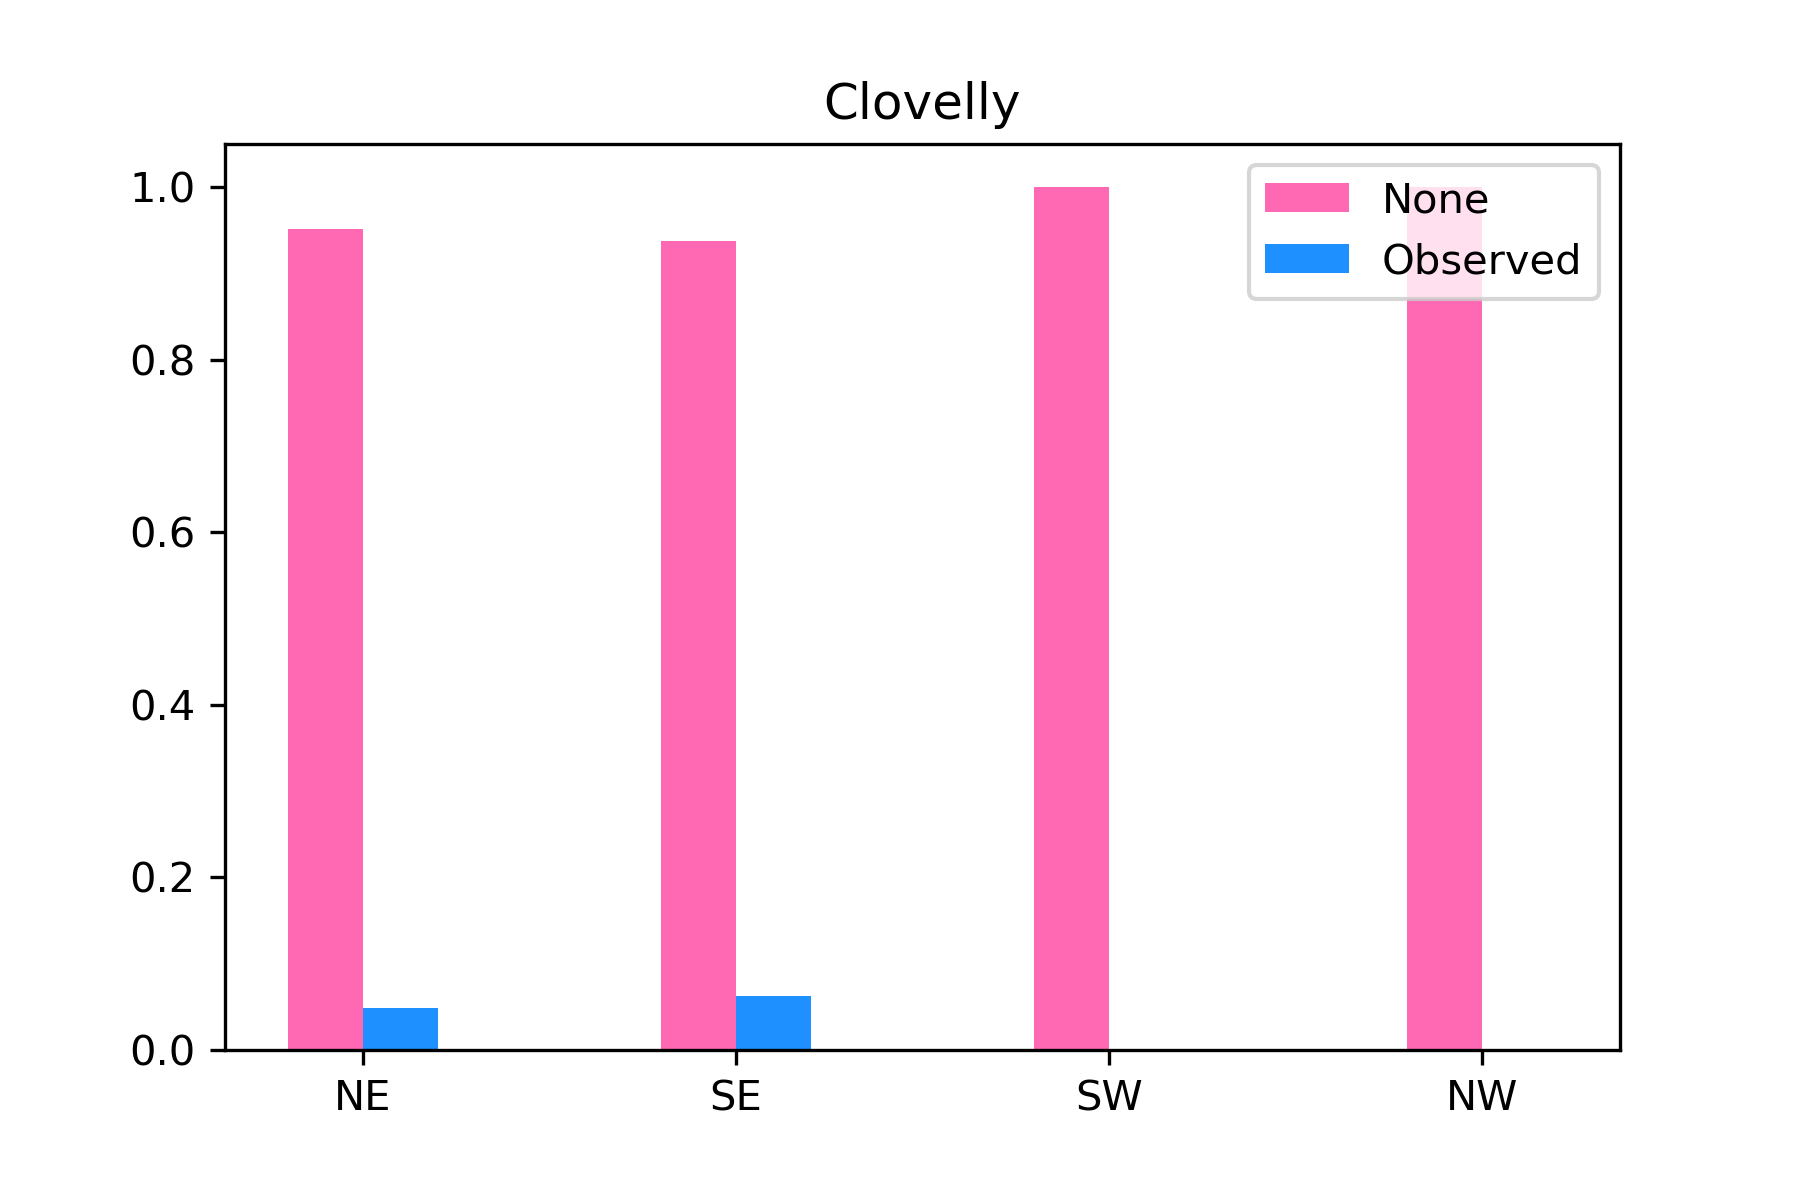
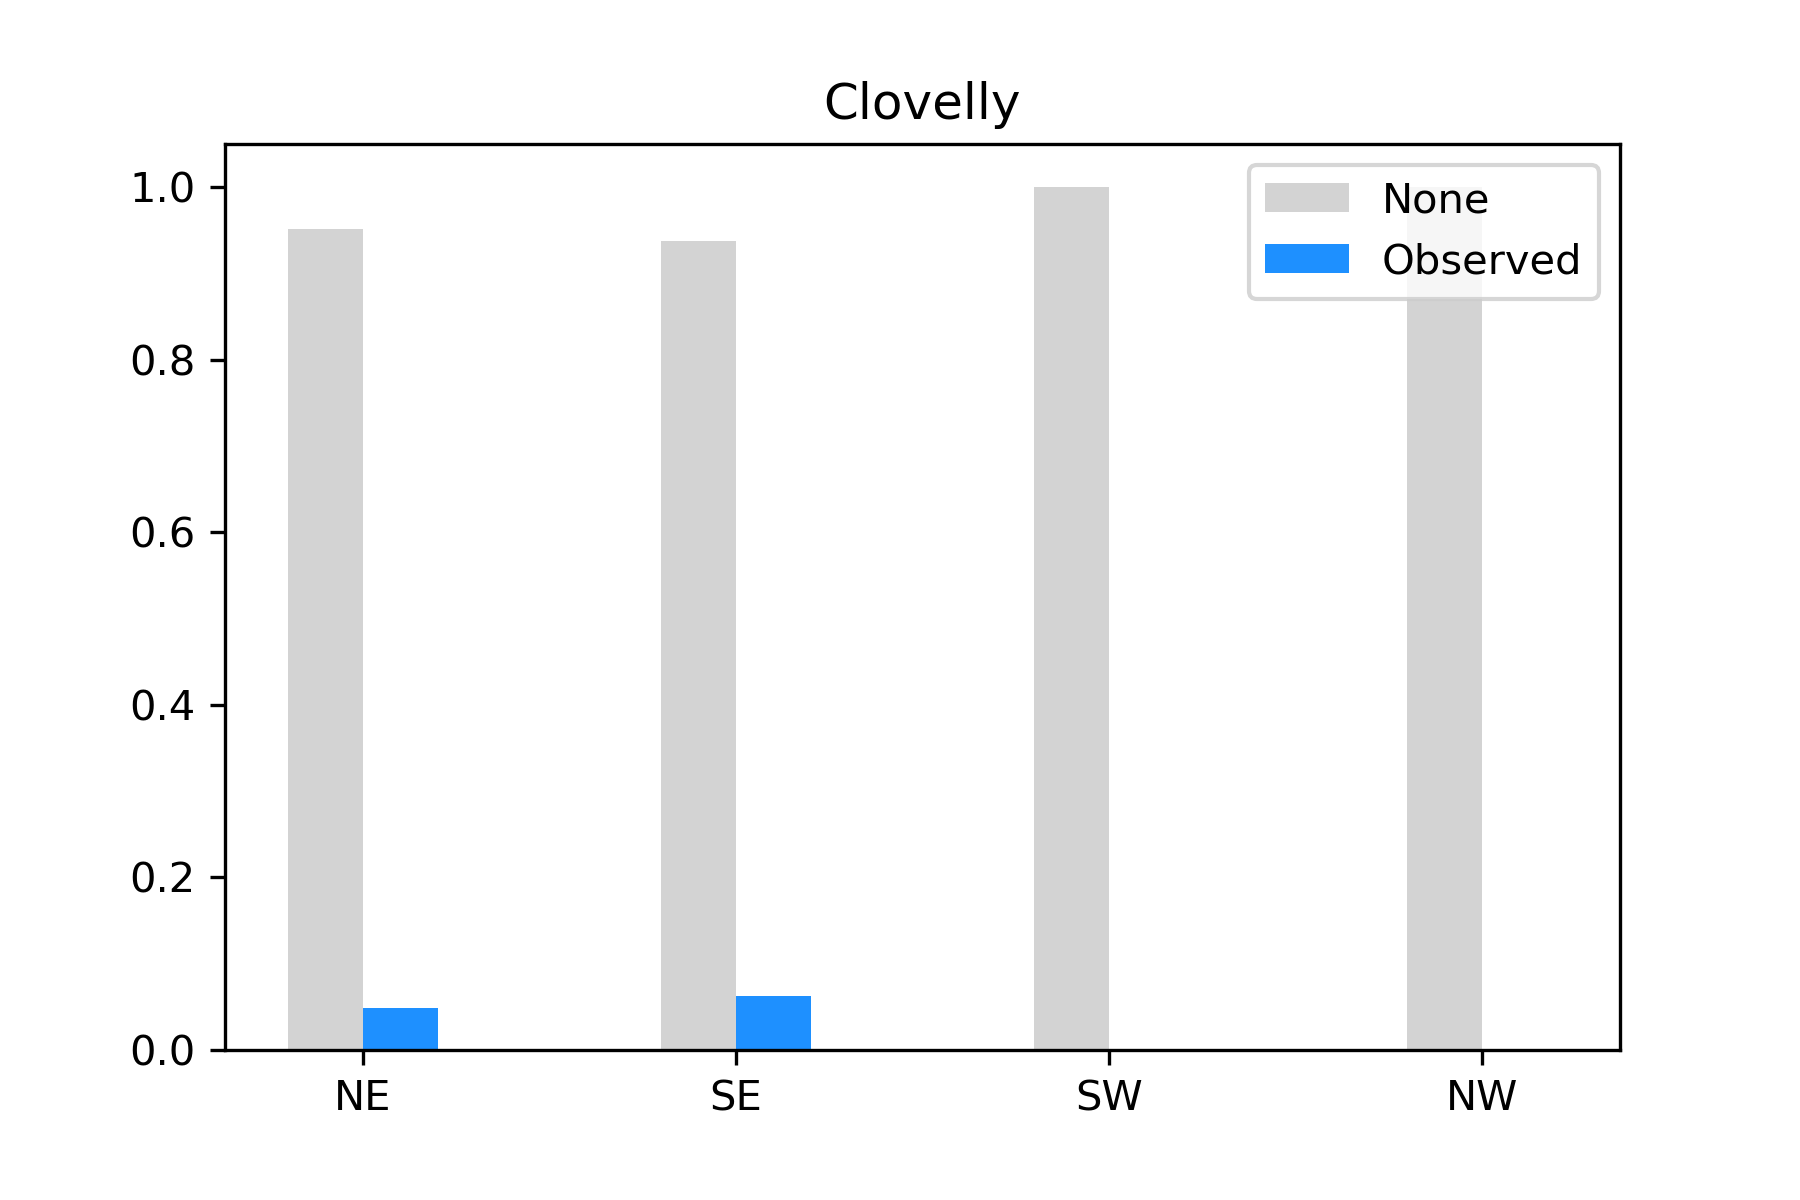
Add rose plots kurnell oceano

diff --git a/observation_data/analysis_observation_data/analysis_bluebottle_lifeguard.py b/observation_data/analysis_observation_data/analysis_bluebottle_lifeguard.py
@@ -118,7 +118,7 @@ def TableDiff(date1,date2,file1,file2):
     t=Table([date,first_beach,second_beach], names=('date',first,second))
     total=equal+diff
     t.add_row((0, equal, total))
-    ascii.write(t, '../outputs_observation_data/diff'+first+second+'.csv', format='csv', fast_writer=False, overwrite=True)  
+#    ascii.write(t, '../outputs_observation_data/diff'+first+second+'.csv', format='csv', fast_writer=False, overwrite=True)  
 
 def PlotTemp():
     """
@@ -134,11 +134,11 @@ def PlotTemp():
         fig=plt.figure(figsize=(12,9))
         for j in range(len(bluebottles[i])):
             if bluebottles[i][j]==1:
-                somemany=plt.scatter(date[i][j], water_temp[i][j], color='dodgerblue',s=12)
-            elif bluebottles[i][j]==0.5:
-                likely=plt.scatter(date[i][j], water_temp[i][j], color='lightskyblue',s=12)
+                somemany=plt.scatter(date[i][j], water_temp[i][j], color='dodgerblue',s=14,marker='o')
+     #       elif bluebottles[i][j]==0.5:
+     #           likely=plt.scatter(date[i][j], water_temp[i][j], color='lightskyblue',s=12,alpha=0, marker='o')
             else:
-                none=plt.scatter(date[i][j], water_temp[i][j], color='hotpink',alpha=0.2, marker='+',s=10)
+                none=plt.scatter(date[i][j], water_temp[i][j], color='lightgrey', marker='o',s=14,alpha=0.3)
         ax=plt.axes()
         ax.xaxis.set_major_locator(years)
         ax.xaxis.set_major_formatter(years_fmt)
@@ -148,8 +148,8 @@ def PlotTemp():
         fig.autofmt_xdate()
         plt.ylabel('Water temperature (celsius)')
         plt.title('Bluebottles at '+str(location[i])+' beach')
-        plt.legend((somemany, likely, none),
-                    ('observed','likely','none'),
+        plt.legend((somemany,  none),#likely,
+                    ('observed','none'),# 'likely',
                     scatterpoints=1,
                     loc='upper left',
                     ncol=3,
@@ -197,7 +197,7 @@ def TableMonthBeach():
                                 none_month[i][m]+=1
                             percentage_none_month[i][m]=np.divide(100.*none_month[i][m],observed_month[i][m]+likely_month[i][m]+none_month[i][m])
             month_beach=Table([month,observed_month[i][:12],likely_month[i][:12],none_month[i][:12], percentage_none_month[i][:12]],names=('Month','Observed','Likely','Noone','% of None'))
-            ascii.write(month_beach, '../outputs_observation_data/monthly_bluebottles_'+str(yearr[y])+'_'+location[i]+'.csv', format='csv', fast_writer=False, overwrite=True)  
+          #  ascii.write(month_beach, '../outputs_observation_data/monthly_bluebottles_'+str(yearr[y])+'_'+location[i]+'.csv', format='csv', fast_writer=False, overwrite=True)  
         ax[y].set_ylabel('# observations')
         ax[y].bar(xbar-width/2, observed_month[0], width=0.2, color='dodgerblue', align='center',label='observed')
         ax[y].bar(xbar+width/2, none_month[0], width=0.2, color='hotpink', align='center',label='none')
@@ -394,39 +394,17 @@ def WindDirectionTime(nb, date_plot, BOMdaily):
                 ncol=3,
                 fontsize=8)
     plt.show()
-    fig.savefig("../outputs_observation_data/gust_direction_past_"+str(location[nb])+".png",dpi=300)
+  #  fig.savefig("../outputs_observation_data/gust_direction_past_"+str(location[nb])+".png",dpi=300)
 
 
 file_name = '../raw_observation_data/bom_port_kembla/all_IDO.csv'
 f=pd.read_csv(file_name)
 
-BOMtime, BOMdate, BOMwater_temp, BOMwind_direction, BOMwind_speed = GetBOMVariables(f)
-BOMdaily,date_plot=DailyAverage()
+#BOMtime, BOMdate, BOMwater_temp, BOMwind_direction, BOMwind_speed = GetBOMVariables(f)
+#BOMdaily,date_plot=DailyAverage()
 
 #plt.hist(x,bins=30)
 #plt.ylabel('proba')
-
-"""
-Kurnell data 
-
-wind_direction[i]=file.Wind_direction_00[i]+file.Wind_direction_03[i]+file.Wind_direction_06[i]+file.Wind_direction_09[i]+float(file.Wind_direction_12[i])+float(file.Wind_direction_15[i])+float(file.Wind_direction_18[i])+float(file.Wind_direction_21[i])
-daily_direction[i]=(wind_direction[i])/8
-wind_speed[i]=file.Wind_speed_00[i]+file.Wind_speed_03[i]+file.Wind_speed_06[i]+file.Wind_speed_09[i]+float(file.Wind_speed_12[i])+float(file.Wind_speed_15[i])+float(file.Wind_speed_18[i])+float(file.Wind_speed_21[i])
-daily_speed[i]=(wind_speed[i])/8 #in m/s
-wind_u[i]=1/8*(GetU(file.Wind_speed_00[i],file.Wind_direction_00[i])+GetU(file.Wind_speed_03[i],file.Wind_direction_03[i])+GetU(file.Wind_speed_06[i],file.Wind_direction_06[i])+GetU(file.Wind_speed_09[i],file.Wind_direction_09[i])+GetU(file.Wind_speed_12[i],file.Wind_direction_12[i])+GetU(file.Wind_speed_15[i],file.Wind_direction_15[i])+GetU(file.Wind_speed_18[i],file.Wind_direction_18[i])+GetU(file.Wind_speed_21[i],file.Wind_direction_21[i]))
-wind_v[i]=1/8*(GetV(file.Wind_speed_00[i],file.Wind_direction_00[i])+GetV(file.Wind_speed_03[i],file.Wind_direction_03[i])+GetV(file.Wind_speed_06[i],file.Wind_direction_06[i])+GetV(file.Wind_speed_09[i],file.Wind_direction_09[i])+GetV(file.Wind_speed_12[i],file.Wind_direction_12[i])+GetV(file.Wind_speed_15[i],file.Wind_direction_15[i])+GetV(file.Wind_speed_18[i],file.Wind_direction_18[i])+GetV(file.Wind_speed_21[i],file.Wind_direction_21[i]))
-max_speed[i]=file.max_speed[i]
-max_direction[i]=file.max_direction[i]
-
-    wind_u=np.zeros(len(file))
-    wind_v=np.zeros(len(file))
-    max_speed=np.zeros(len(file))
-    max_direction=np.zeros(len(file))
-    wind_direction=np.zeros(len(file))
-    wind_speed=np.zeros(len(file))
-    daily_direction=np.zeros(len(file))
-    daily_speed=np.zeros(len(file))
-"""
 
 
 
@@ -498,7 +476,7 @@ def PolarPlot(nb,direction):
     ax.set_theta_zero_location('W', offset=10)
     plt.title("Daily averaged wind direction (day before) at "+str(location[nb]))
     plt.show()
-    fig.savefig("../outputs_observation_data/with_BOMdata/polar_plot_"+str(location[nb])+".png",dpi=300)
+   # fig.savefig("../outputs_observation_data/with_BOMdata/polar_plot_"+str(location[nb])+".png",dpi=300)
 
 #file_name_kurnell = '../raw_observation_data/wind_kurnell_sydney_observatory/Kurnell_Data.csv'
 #file=pd.read_csv(file_name_kurnell)
@@ -533,8 +511,8 @@ def UVplot():
 #for i in range(len(beach)):
  #   WindDirectionTime(i,date_kurnell,max_direction)
     
-for i in range(3):
-    PolarPlot(i,BOMdaily)
+#for i in range(3):
+ #   PolarPlot(i,BOMdaily)
 
 #UVplot()
     

diff --git a/observation_data/analysis_observation_data/analysis_sydney_obs.py b/observation_data/analysis_observation_data/analysis_sydney_obs.py
@@ -285,7 +285,7 @@ def RosePlot(beachnb,bluebnb,date_obs,direction_obs,speed_obs):
  #   fig2=plt.figure()
   #  plt.hist(wind_direction,bins_new)
     
-  #  plt.savefig("../outputs_observation_data/sydney_obs/daily_averaged/rose"+str(location[beachnb])+"_"+str(blueb[bluebnb])+"_pastday.png",dpi=300)
+    plt.savefig("../outputs_observation_data/sydney_obs/daily_averaged/rose"+str(location[beachnb])+"_"+str(blueb[bluebnb])+"_pastday.png",dpi=300)
 
 
 def TimeSeriesPlot():
@@ -312,7 +312,6 @@ def TimeSeriesPlot():
     plt.ylabel('daily averaged V')
     plt.show()
   #  fig.savefig("../outputs_observation_data/sydney_obs/timeseries_5.png",dpi=300)
-
 
 file_name = '../raw_observation_data/wind_kurnell_sydney_observatory/wind_66043_local_time.csv'
 filename=pd.read_csv(file_name)
@@ -392,10 +391,6 @@ direction_daily_o=direction_daily_o*180/np.pi #rad to deg
 direction_daily_step=ToNormal(direction_daily_o)
 wind_direction_daily=ToMeteo(direction_daily_step)
 #TimeSeriesPlot()
-
-
-
-
 
 """
 NE=np.where(np.logical_and(wind_direction_daily>11.25, wind_direction_daily<=101.25))
